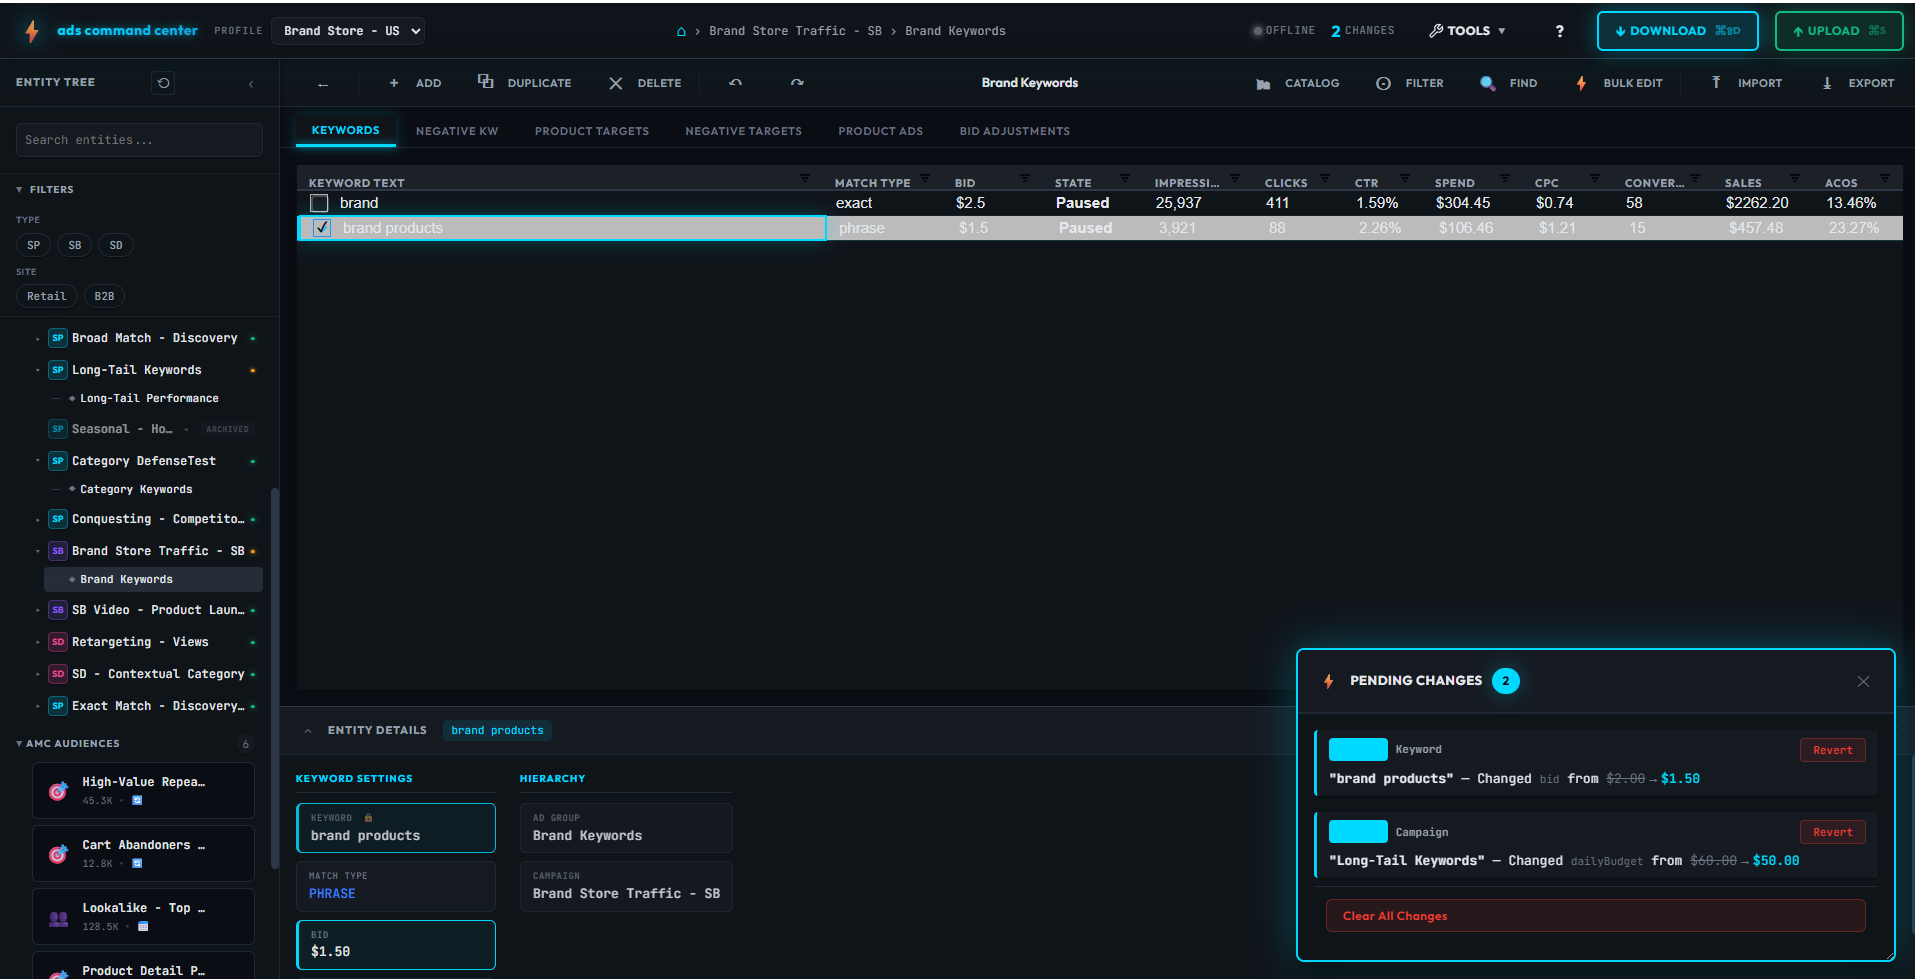
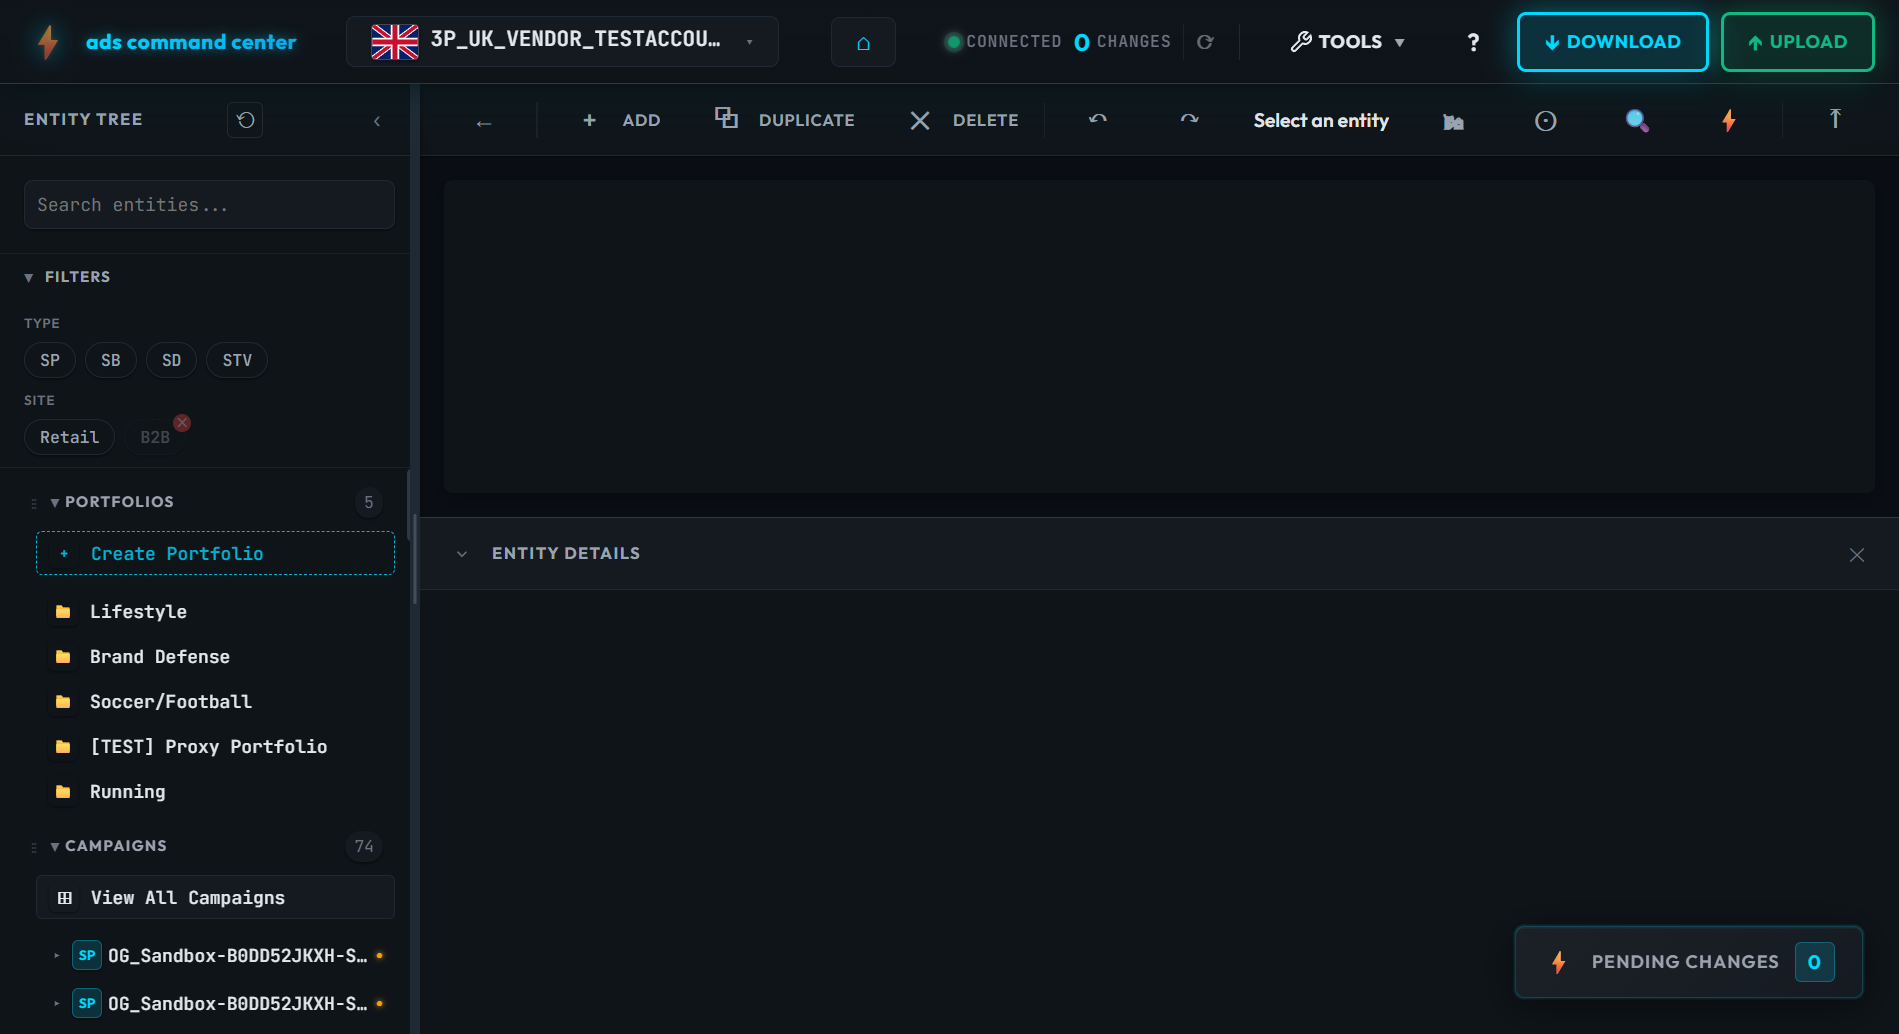
Update screenshots with latest app UI
- Update hero-main.png with current interface
- Update tools-dropdown.png showing Account Copy and all tools
- Add sd-creatives.png showing new SD Creatives feature
- Add SD Creatives to screenshots section in index.html

🤖 Generated with [Claude Code](https://claude.com/claude-code)

diff --git a/index.html b/index.html
@@ -469,6 +469,16 @@
                         </div>
                     </div>
                 </div>
+
+                <div class="screenshot-item">
+                    <div class="screenshot-label">SD CREATIVES</div>
+                    <div class="screenshot-frame">
+                        <img src="images/sd-creatives.png" alt="Sponsored Display creatives management with tabs for product ads, creatives, targets, and bid adjustments" onerror="this.style.display='none'; this.nextElementSibling.style.display='flex';">
+                        <div class="screenshot-placeholder-small">
+                            <p>SD Creative Management</p>
+                        </div>
+                    </div>
+                </div>
             </div>
         </div>
     </section>
